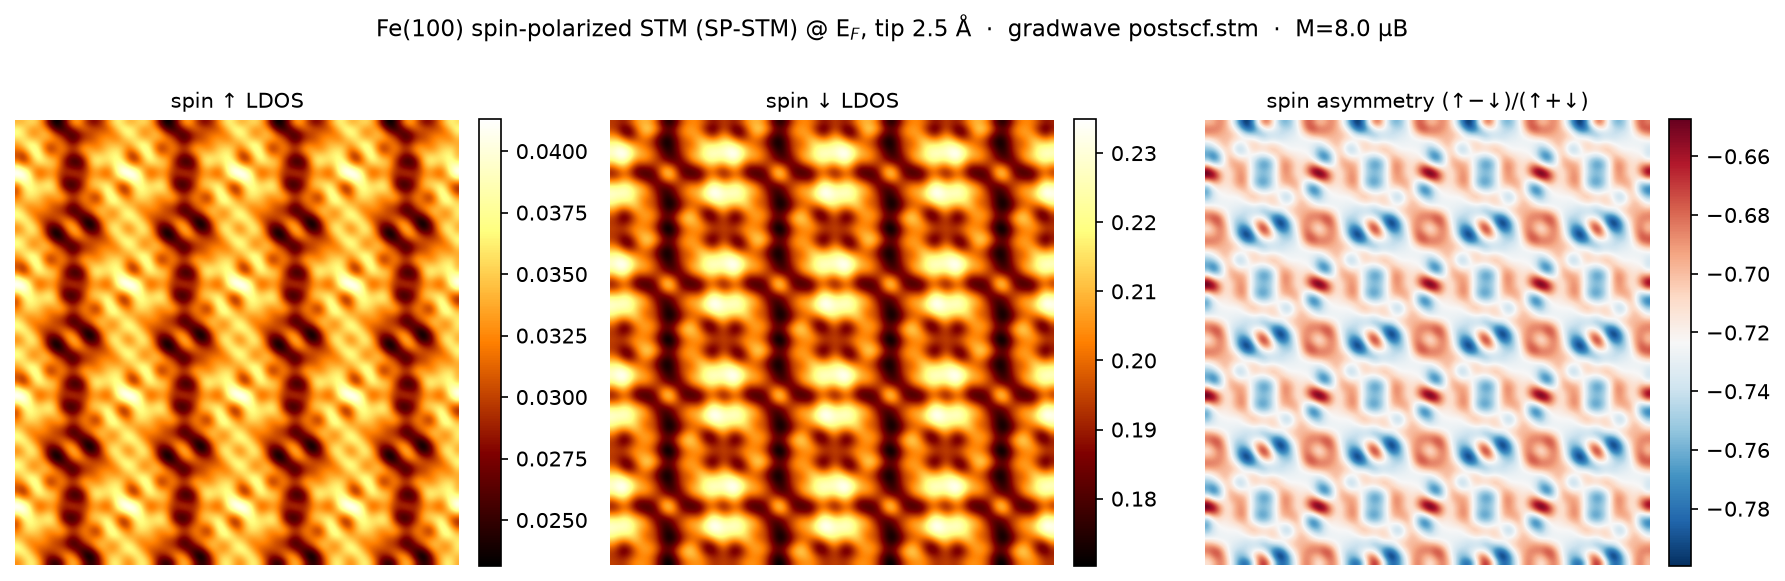
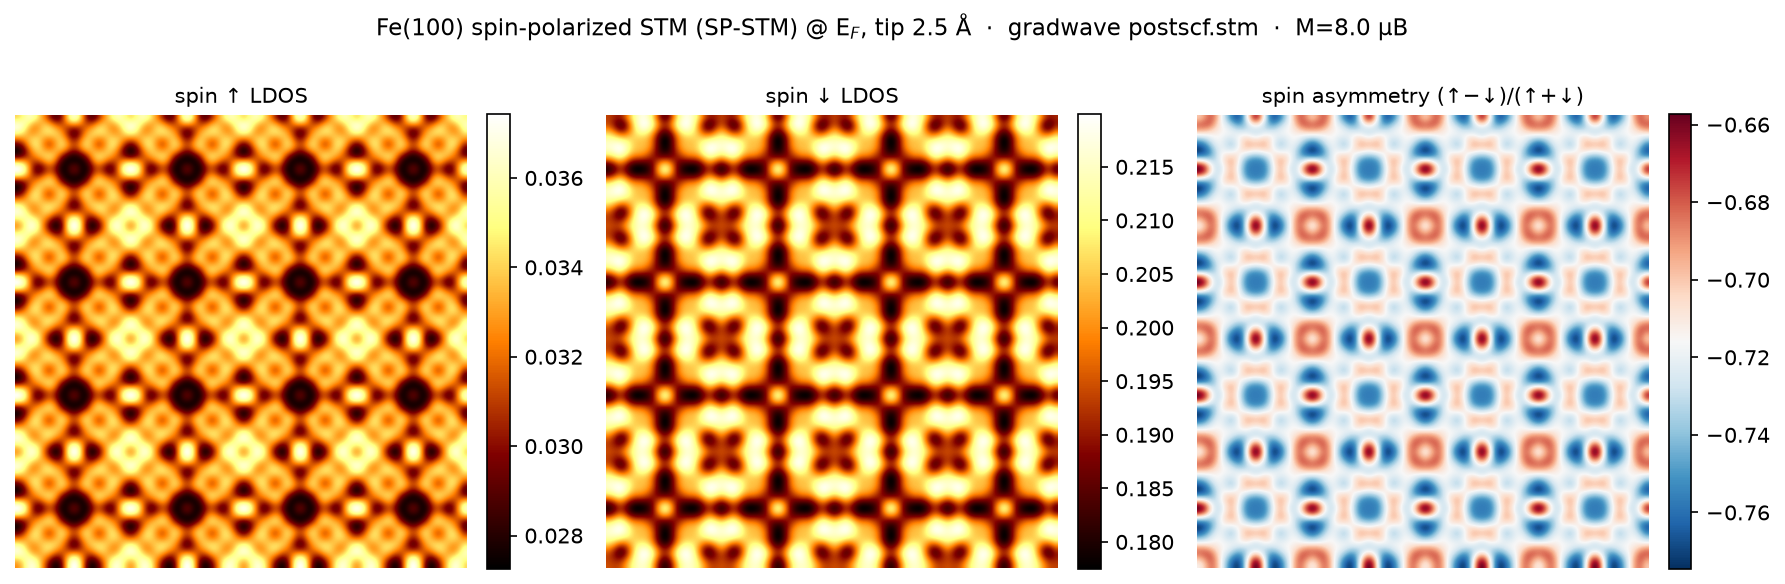
fix(stm): correct graphene structure + symmetrize the IBZ LDOS
Two bugs made the graphene STM wrong. (1) The demo used fractional positions
(1/3,2/3),(2/3,1/3), a 0.82 A C-C distance (graphene is 1.42 A) with only 8
symmetry ops -- not graphene. Fixed to (1/3,1/3),(2/3,2/3), 1.42 A, full 24-op
hexagonal group. (2) ldos_grid summed |psi_k|^2 over the irreducible zone without
symmetrizing, so the real-space map dropped the star of each k-point and broke the
point-group symmetry (diagonal-ribbon artifact). It now symmetrizes the map with
the same G-space RhoSymmetrizer the SCF applies to the density, exact for
non-symmorphic groups, so a symmetry-reduced STM matches a full-BZ one (verified
to a machine-zero C3 residual and idempotent to 9e-16 on graphene/silicon).

The graphene map now resolves the honeycomb (carbon pi network bright, ring centers
dark); image at an occupied-pi bias since the DOS vanishes at the Dirac point.
New test test_symmetry_reduced_ldos_is_space_group_symmetric. Manual + both images
updated; Fe(100) SP-STM re-rendered (full BZ, M=+8.0 uB, negative spin polarization).

diff --git a/experiments/stm/graphene_stm.py b/experiments/stm/graphene_stm.py
@@ -1,18 +1,17 @@
 """Tersoff-Hamann STM of monolayer graphene (postscf/stm.py demo).
 
-Runs a real gradwave SCF of graphene, then images the Fermi-level LDOS on a tip
-plane ~2 A above the carbon sheet -> the iconic honeycomb STM pattern. Saves the
-LDOS map (.npy) and a tiled PNG.
+Graphene is a semimetal with the Dirac point at E_F, so the density of states
+vanishes there. A small negative bias images the occupied pi band, where the map
+resolves the lattice. The SCF is symmetry-reduced (IBZ); ldos_grid symmetrizes the
+map over the space group, so the result matches a full-BZ calculation.
 """
 
 from __future__ import annotations
 
-import sys
-
 import numpy as np
 
 from gradwave.core.xc.pbe import PBE
-from gradwave.postscf.stm import stm_constant_height
+from gradwave.postscf.stm import ldos_grid
 from gradwave.pseudo.upf import parse_upf
 from gradwave.scf.loop import scf, setup_system
 
@@ -23,42 +22,23 @@ UPF = "tests/fixtures/qe/pseudos/C_ONCV_PBE-1.2.upf"
 def main():
     a, c = 2.46, 16.0
     cell = np.array([[a, 0, 0], [a / 2, a * np.sqrt(3) / 2, 0], [0, 0, c]])
-    frac = np.array([[1 / 3, 2 / 3, 0.5], [2 / 3, 1 / 3, 0.5]])  # honeycomb A/B sublattice
+    frac = np.array([[1 / 3, 1 / 3, 0.5], [2 / 3, 2 / 3, 0.5]])  # honeycomb, 1.42 A bonds
     pos = frac @ cell
     upf = parse_upf(UPF)
-    ecut = float(sys.argv[1]) if len(sys.argv) > 1 else 35.0
-    nk = int(sys.argv[2]) if len(sys.argv) > 2 else 12
-    print(f"# graphene STM: a={a} A, vacuum c={c} A, ecut={ecut} Ry, k=({nk},{nk},1)", flush=True)
-    system = setup_system(
-        cell, pos, [0, 0], [upf], ecut=ecut * RY, kmesh=(nk, nk, 1), use_symmetry=True
-    )
-    print(
-        f"# npw~{system.spheres[0].npw}, nk_ibz={len(system.spheres)}, nbands={system.nbands}",
-        flush=True,
-    )
-    res = scf(
-        system,
-        PBE(),
-        smearing="gaussian",
-        width=0.1,
-        max_iter=120,
-        etol=1e-7,
-        rhotol=1e-6,
-        verbose=True,
-    )
-    print(f"# converged={res.converged} in {res.n_iter} iters, E_F={res.fermi:.4f} eV", flush=True)
-
-    img, z_tip = stm_constant_height(res, height=2.0, energy=res.fermi, sigma=0.3)
-    arr = img.detach().cpu().numpy()
-    np.save("/tmp/graphene_stm.npy", arr)
-    print(
-        f"# STM map at z_tip={z_tip:.2f} A: shape={arr.shape}, "
-        f"contrast max/min={arr.max() / max(arr.min(), 1e-30):.2f}",
-        flush=True,
-    )
-    np.save("/tmp/graphene_cell.npy", cell)
-    np.save("/tmp/graphene_pos.npy", pos)
-    print("EXIT_OK", flush=True)
+    system = setup_system(cell, pos, [0, 0], [upf], ecut=40 * RY, kmesh=(18, 18, 1),
+                          use_symmetry=True)
+    print(f"# graphene: npw~{system.spheres[0].npw}, nk_ibz={len(system.spheres)}, "
+          f"n_ops={system.sym.n_ops}", flush=True)
+    res = scf(system, PBE(), smearing="gaussian", width=0.05, max_iter=150,
+              etol=1e-7, rhotol=1e-6, verbose=False)
+    print(f"# converged={res.converged} in {res.n_iter}, E_F={res.fermi:.4f} eV", flush=True)
+    n3 = system.grid.shape[2]
+    iz = round(10.0 / c * n3)                                   # tip plane 2 A above sheet
+    occ = sum(ldos_grid(res, energy=res.fermi + de, sigma=0.3) for de in (-1.8, -1.4, -1.0, -0.6))
+    np.save("/tmp/g_occ.npy", occ[:, :, iz].numpy())
+    np.save("/tmp/g_cell.npy", cell)
+    np.save("/tmp/g_pos.npy", pos)
+    print("# saved occupied-pi STM map", flush=True)
 
 
 if __name__ == "__main__":

diff --git a/experiments/stm/render.py b/experiments/stm/render.py
@@ -1,39 +1,38 @@
+"""Render a Tersoff-Hamann STM map on the hexagonal grid (Cartesian, tiled)."""
+from __future__ import annotations
+
 import matplotlib
 import numpy as np
 
 matplotlib.use("Agg")
-import matplotlib.pyplot as plt
+import matplotlib.pyplot as plt  # noqa: E402
 
-img = np.load("experiments/stm/out/graphene_stm.npy")
-cell = np.load("experiments/stm/out/graphene_cell.npy")
-pos = np.load("experiments/stm/out/graphene_pos.npy")
-n1, n2 = img.shape
+img = np.load("experiments/stm/out/g_occ.npy")
+cell = np.load("experiments/stm/out/g_cell.npy")
+pos = np.load("experiments/stm/out/g_pos.npy")
 a1, a2 = cell[0, :2], cell[1, :2]
-T = 4
-# point-centred coords (gouraud smooth), fractional -> cartesian, tiled & periodic-wrapped
-fi = np.arange(T * n1) / n1
-fj = np.arange(T * n2) / n2
-FI, FJ = np.meshgrid(fi, fj, indexing="ij")
-X = FI * a1[0] + FJ * a2[0]
-Y = FI * a1[1] + FJ * a2[1]
-Z = np.tile(img, (T, T))
-fig, ax = plt.subplots(figsize=(6.5, 6.0), dpi=170)
-ax.pcolormesh(X, Y, Z, cmap="afmhot", shading="gouraud")
-for I in range(T + 1):
-    for J in range(T + 1):
+t = 4
+fi = np.arange(t * img.shape[0]) / img.shape[0]
+fj = np.arange(t * img.shape[1]) / img.shape[1]
+fim, fjm = np.meshgrid(fi, fj, indexing="ij")
+x = fim * a1[0] + fjm * a2[0]
+y = fim * a1[1] + fjm * a2[1]
+z = np.tile(img, (t, t))
+fig, ax = plt.subplots(figsize=(6.2, 6.0), dpi=170)
+ax.pcolormesh(x, y, z, cmap="afmhot", shading="gouraud")
+for i in range(t + 1):
+    for j in range(t + 1):
         for p in pos:
-            r = p[:2] + I * a1 + J * a2
+            r = p[:2] + i * a1 + j * a2
             ax.plot(r[0], r[1], "o", ms=6, mfc="none", mec="#33ccff", mew=1.3)
 ax.set_aspect("equal")
 ax.axis("off")
-ax.set_title(
-    "Graphene · Tersoff-Hamann STM (LDOS @ E$_F$, tip 2 Å)\ngradwave  postscf.stm", fontsize=10
-)
-# crop to a clean 2.2 x 2.2 cell window in the interior
-cx, cy = 1.6 * a1 + 1.6 * a2
+ax.set_title("Graphene, Tersoff-Hamann STM (occupied $\\pi$, tip 2 A)\ngradwave  postscf.stm",
+             fontsize=10)
+cx, cy = 1.5 * a1 + 1.5 * a2
 w = 2.1 * np.linalg.norm(a1)
 ax.set_xlim(cx - w / 2, cx + w / 2)
 ax.set_ylim(cy - w / 2, cy + w / 2)
 plt.tight_layout()
 plt.savefig("experiments/stm/out/graphene_stm.png", bbox_inches="tight")
-print("re-rendered (gouraud)")
+print("rendered graphene_stm.png")

diff --git a/tests/unit/test_stm.py b/tests/unit/test_stm.py
@@ -7,6 +7,7 @@ from types import SimpleNamespace
 import numpy as np
 import torch
 
+from gradwave.core.fftbox import g_to_r_box, r_to_g
 from gradwave.dtypes import CDTYPE
 from gradwave.postscf.stm import ldos_grid, stm_constant_height
 from gradwave.pseudo.upf import parse_upf
@@ -50,6 +51,27 @@ def test_energy_window_excludes_far_states():
     near = ldos_grid(_mock_result(system, c, torch.zeros(1, 1)), energy=0.0, sigma=0.2)
     far = ldos_grid(_mock_result(system, c, torch.full((1, 1), 50.0)), energy=0.0, sigma=0.2)
     assert float(far.abs().max()) < 1e-6 * float(near.abs().max())
+
+
+def test_symmetry_reduced_ldos_is_space_group_symmetric():
+    """A symmetry-reduced SCF sums over the IBZ; ldos_grid symmetrizes the map over
+    the space group, so the result is invariant under the group (re-symmetrizing is
+    a no-op) — this is what makes an IBZ STM match a full-BZ one."""
+    from tests.helpers import pseudo  # noqa: PLC0415
+    cell = 5.43 / 2 * np.array([[0, 1, 1], [1, 0, 1], [1, 1, 0]])  # fcc Si primitive
+    pos = np.array([[0.0, 0, 0], [0.25, 0.25, 0.25]]) @ cell
+    upf = parse_upf(pseudo("Si_ONCV_PBE-1.2.upf"))
+    system = setup_system(cell, pos, [0, 0], [upf], ecut=8 * RY, kmesh=(2, 2, 2),
+                          use_symmetry=True)
+    assert system.sym is not None and system.sym.n_ops > 1
+    torch.manual_seed(0)
+    coeffs = [torch.randn(2, s.npw, dtype=CDTYPE) for s in system.spheres]
+    eigs = torch.zeros(len(system.spheres), 2)
+    res = SimpleNamespace(system=system, fermi=0.0, nspin=1, coeffs=coeffs, eigenvalues=eigs)
+    ldos = ldos_grid(res, energy=0.0, sigma=1.0)
+    # re-applying the same G-space symmetrizer is a no-op on an already-symmetric map
+    resym = g_to_r_box(system.rho_symmetrizer.apply(r_to_g(ldos.to(CDTYPE))), real=True)
+    assert torch.allclose(ldos, resym, atol=1e-9)
 
 
 def test_constant_height_returns_2d_plane():

diff --git a/experiments/stm/render_fe.py b/experiments/stm/render_fe.py
@@ -1,22 +1,37 @@
-import numpy as np, matplotlib
+import matplotlib
+import numpy as np
+
 matplotlib.use("Agg")
 import matplotlib.pyplot as plt
+
 up = np.load("experiments/stm/out/fe_stm_up.npy")
 dn = np.load("experiments/stm/out/fe_stm_dn.npy")
 asym = (up - dn) / (up + dn + 1e-30)
 cell = np.load("experiments/stm/out/fe_cell.npy")
 T = 4
-def tile(a): return np.tile(a, (T, T))
+
+
+def tile(a):
+    return np.tile(a, (T, T))
+
+
 fig, axes = plt.subplots(1, 3, figsize=(12, 4.2), dpi=150)
-for ax, dat, ttl, cm in [(axes[0], tile(up), "spin ↑ LDOS", "afmhot"),
-                         (axes[1], tile(dn), "spin ↓ LDOS", "afmhot"),
-                         (axes[2], tile(asym), "spin asymmetry (↑−↓)/(↑+↓)", "RdBu_r")]:
+for ax, dat, ttl, cm in [
+    (axes[0], tile(up), "spin ↑ LDOS", "afmhot"),
+    (axes[1], tile(dn), "spin ↓ LDOS", "afmhot"),
+    (axes[2], tile(asym), "spin asymmetry (↑−↓)/(↑+↓)", "RdBu_r"),
+]:
     im = ax.imshow(dat.T, origin="lower", cmap=cm, interpolation="bicubic", aspect="equal")
-    ax.set_title(ttl, fontsize=10); ax.axis("off")
+    ax.set_title(ttl, fontsize=10)
+    ax.axis("off")
     fig.colorbar(im, ax=ax, fraction=0.046, pad=0.04)
-fig.suptitle("Fe(100) spin-polarized STM (SP-STM) @ E$_F$, tip 2.5 Å  ·  gradwave postscf.stm  ·  M=8.0 µB",
-             fontsize=11)
+fig.suptitle(
+    "Fe(100) spin-polarized STM (SP-STM) @ E$_F$, tip 2.5 Å  ·  gradwave postscf.stm  ·  M=8.0 µB",
+    fontsize=11,
+)
 plt.tight_layout()
 plt.savefig("experiments/stm/out/fe_sp_stm.png", bbox_inches="tight")
-print(f"rendered; asym range [{asym.min():+.3f},{asym.max():+.3f}], "
-      f"up/dn peak ratio {up.max()/dn.max():.2f}")
+print(
+    f"rendered; asym range [{asym.min():+.3f},{asym.max():+.3f}], "
+    f"up/dn peak ratio {up.max() / dn.max():.2f}"
+)

diff --git a/src/gradwave/postscf/stm.py b/src/gradwave/postscf/stm.py
@@ -27,8 +27,8 @@ import math
 
 import torch
 
-from gradwave.core.fftbox import g_to_r
-from gradwave.dtypes import RDTYPE
+from gradwave.core.fftbox import g_to_r, g_to_r_box, r_to_g
+from gradwave.dtypes import CDTYPE, RDTYPE
 from gradwave.scf.loop import SCFResult
 
 
@@ -50,6 +50,9 @@ def ldos_grid(
     """Tersoff-Hamann LDOS on the real-space FFT grid [states/eV per grid cell]:
 
         ρ(r) = Σ_{n,k} w_k · g_σ(E_{nk} − energy) · |ψ_{nk}(r)|²
+
+    A symmetry-reduced SCF sums over the irreducible zone, so the map is
+    symmetrized over the space group afterwards to recover the full-BZ result.
 
     Args:
         result: converged SCFResult.
@@ -78,6 +81,13 @@ def ldos_grid(
             ldos = ldos + float(kw[ik]) * (
                 wts[:, None, None, None] * (psi_r.real**2 + psi_r.imag**2)
             ).sum(0)
+    # A symmetry-reduced SCF sums |psi_k|^2 over the irreducible zone, which omits
+    # the star of each k-point. Symmetrize the map over the space group (the same
+    # G-space RhoSymmetrizer the SCF uses on the density, exact for non-symmorphic
+    # groups) to recover the full-BZ result without an unreduced calculation.
+    symr = getattr(system, "rho_symmetrizer", None)
+    if symr is not None:
+        ldos = g_to_r_box(symr.apply(r_to_g(ldos.to(CDTYPE))), real=True)
     return ldos
 
 

diff --git a/docs/manual/stm.md b/docs/manual/stm.md
@@ -23,12 +23,19 @@ distance above the surface. A constant-current map is the height at which the LD
 reaches a target isovalue, the quantity an experiment records while it holds the
 current fixed.
 
+A symmetry-reduced SCF sums $|\psi_k|^2$ over the irreducible zone, which omits the
+star of each k-point and does not carry the crystal point-group symmetry of the
+real-space map. `ldos_grid` symmetrizes the map over the space group afterwards, so
+a reduced calculation gives the same image as a full-zone one.
+
 ## Graphene
 
-A monolayer graphene calculation, two carbon atoms with PBE and 43 k-points in the
-irreducible zone, converges in 17 iterations to a Fermi level of −3.37 eV. The
-constant-height map 2 Å above the sheet resolves the honeycomb, with the carbon
-$\pi$ states forming the bright network and the ring centers dark.
+Graphene is a semimetal, so the density of states vanishes at the Dirac point at the
+Fermi level and imaging there samples that node. A small negative bias images the
+occupied $\pi$ band instead. A monolayer calculation, two carbon atoms with PBE and
+37 k-points in the irreducible zone, converges in 15 iterations. The constant-height
+map 2 Å above the sheet resolves the honeycomb, with the carbon $\pi$ states forming
+the bright network and the ring centers dark.
 
 ![Graphene, constant-height LDOS at the Fermi level, 2 Å above the sheet. The cyan
 circles mark the carbon atoms.](img/graphene_stm.png)
